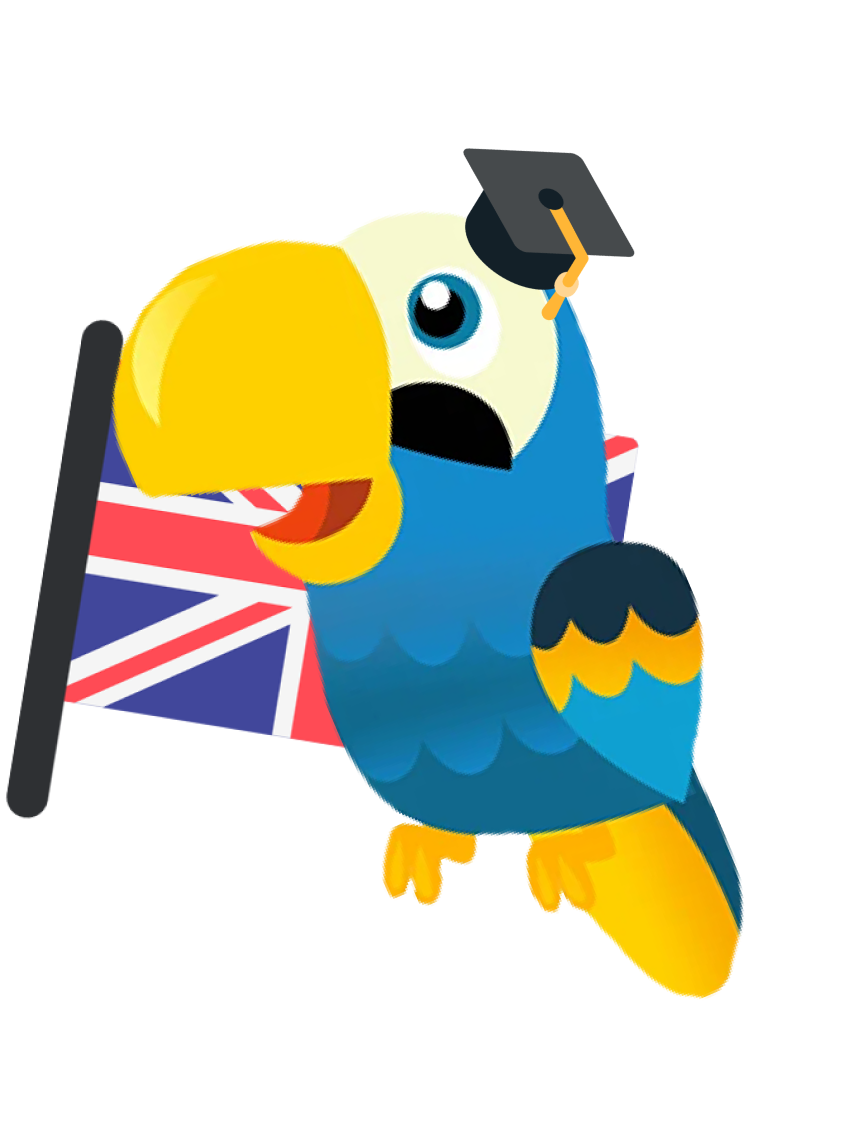
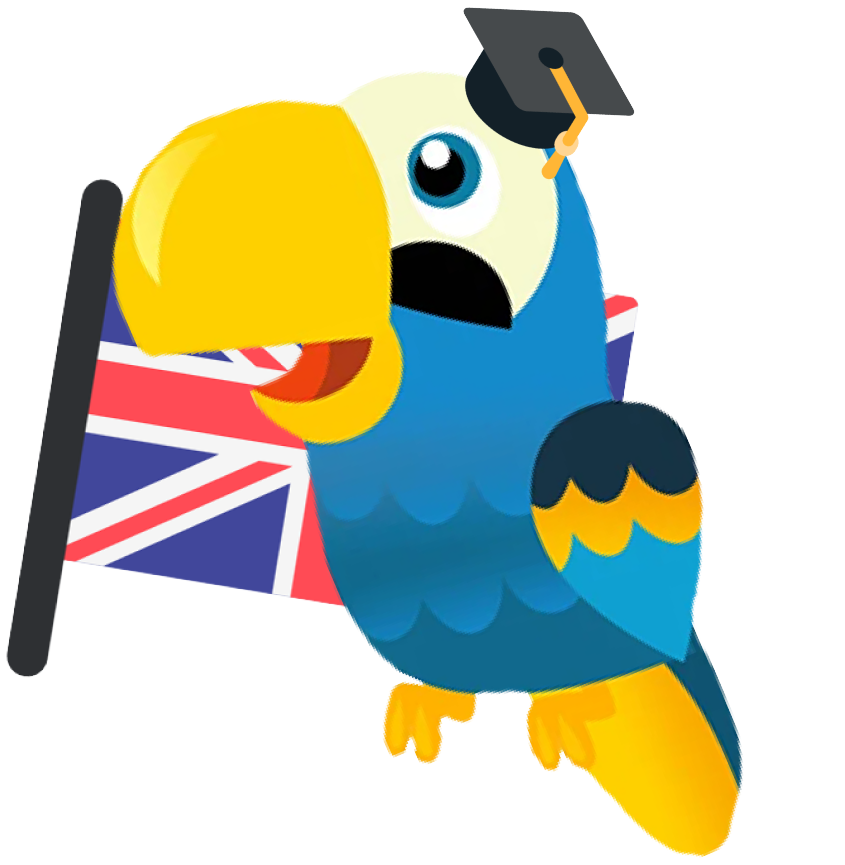
last 20.10.2024

Changed region(s): [[0.0, 0.0, 0.8923, 0.9988], [0.0308, 0.4682, 0.0615, 0.4994]]

diff --git a/src/components/Header/Header.tsx b/src/components/Header/Header.tsx
@@ -18,25 +18,32 @@ const Header = () => {
                         </div>
                     </div>
                 </div>
-                    <nav className={styles.navigation}>
-                        <ul className={styles.navigation__list}>
-                            <li className={styles.navigation__item}>
-                                <div className={styles.navigation__text}>
-                                    Каталог
-                                </div>
-                            </li>
-                            <li className={styles.navigation__item}>
-                                <div className={`${styles.navigation__btn} ${styles.navigation__text}`}>
-                                    Записаться на урок
-                                </div>
-                            </li>
-                            <li className={styles.navigation__item}>
-                                <div className={styles.navigation__text}>
-                                    Войти
-                                </div>
-                            </li>
-                        </ul>
-                    </nav>
+                <nav className={styles.navigation}>
+                    <ul className={styles.navigation__list}>
+                        <li className={styles.navigation__item}>
+
+                            <div className={styles.navigation__text}>
+                                Каталог
+                            </div>
+                            {/*
+                                <select>
+                                    <option>Test</option>
+                                    <option>Test1</option>
+                                </select>
+                                    */}
+                        </li>
+                        <li className={styles.navigation__item}>
+                            <div className={`${styles.navigation__btn} ${styles.navigation__text}`}>
+                                Записаться на урок
+                            </div>
+                        </li>
+                        <li className={styles.navigation__item}>
+                            <div className={styles.navigation__text}>
+                                Войти
+                            </div>
+                        </li>
+                    </ul>
+                </nav>
             </div>
         </header>
     );

diff --git a/src/components/FreeEnglish/FreeEnglish.tsx b/src/components/FreeEnglish/FreeEnglish.tsx
@@ -1,9 +1,28 @@
 import styles from "./FreeEnglish.module.scss"
+import Lightning from "../../assets/lightning.png"
 const FreeEnglish = () => {
   return (
     <section className={styles.free}>
       <div className={styles.free__inner}>
+        <h2 className={styles.free__title}>
+          Свободный английский от Edme
 
+        </h2>
+        <div className={styles.lines}>
+
+
+          <div className={styles.line}>
+            <div className={styles.line__stroke}>
+              <img src={Lightning} alt="Lightning" />
+              <p className={styles.line__text}>
+                Бесплатная консультация с топовым экспертом Skyeng
+              </p>
+            </div>
+          </div>
+
+
+          
+        </div>
       </div>
     </section>
   );

diff --git a/src/components/WelcomeSection/WelcomeSection.tsx b/src/components/WelcomeSection/WelcomeSection.tsx
@@ -1,4 +1,5 @@
 import styles from "./WelcomeSection.module.scss"
+import Bird from "../../assets/bird.png"
 const WelcomeSection = () => {
     return (
         <div className={styles.welcome}>
@@ -19,14 +20,16 @@ const WelcomeSection = () => {
                             Начать учиться!
                         </div>
                     </div>
-                    <img src="" alt="Preview" 
+                    <img src={Bird} alt="Preview" 
                     className={styles.welcome__image}
                     />
+
+             
                 </div>
             </div>
-            <div className={styles.triangle__top}>
+          {/*}  <div className={styles.triangle__top}>
 
-            </div>
+            </div> */}
         </div>
     );
 }

diff --git a/src/components/WelcomeSection/WelcomeSection.module.scss b/src/components/WelcomeSection/WelcomeSection.module.scss
@@ -3,8 +3,9 @@
 .welcome {
     &__wrapper {
         background-color: $gray;
+       clip-path: polygon(0 0, 100% 0, 100% 100%, 0 calc(100% - 82px));
     }
-
+    
     &__inner {
         display: flex;
 
@@ -13,6 +14,7 @@
         padding: 0px 15px;
         margin: 0 auto;
         justify-content: space-between;
+
     }
 
     &__preview {
@@ -53,6 +55,12 @@
         &:hover {
             background-color: $btn-active;
         }
+    }
+    &__image {
+        align-self: flex-end;
+        width: 50%;
+        transform: translateY(20%);
+   
     }
 }
 

diff --git a/src/components/FreeEnglish/FreeEnglish.module.scss b/src/components/FreeEnglish/FreeEnglish.module.scss
@@ -1,0 +1,19 @@
+@import "../../theme/theme";
+.free {
+    &__inner {
+        display: flex;
+        flex-direction: column;
+        max-width: 1430px;
+        padding: 0px 15px;
+        margin: 0 auto;
+        justify-content: space-between;
+        align-items: center;
+
+    }
+
+    &__title {
+        font-weight: 700;
+     @include fontSize(48px);
+        font-family: "Inter", sans-serif;
+    }
+}

diff --git a/src/pages/Homepage.tsx b/src/pages/Homepage.tsx
@@ -9,9 +9,10 @@ const Homepage = () => {
         <div className={styles.wrapper}>
             <Header />
             <div className={styles.content}>
-             
-                <FreeEnglish />
+
+            
                 <WelcomeSection />
+                <FreeEnglish />
             </div>
             <Footer />
         </div>

diff --git a/src/components/Header/Header.module.scss b/src/components/Header/Header.module.scss
@@ -3,6 +3,8 @@
 .header {
     background-color: $black;
     padding: 13px 0;
+    position: relative;
+    z-index: 2;
 
     &__inner {
         display: flex;
